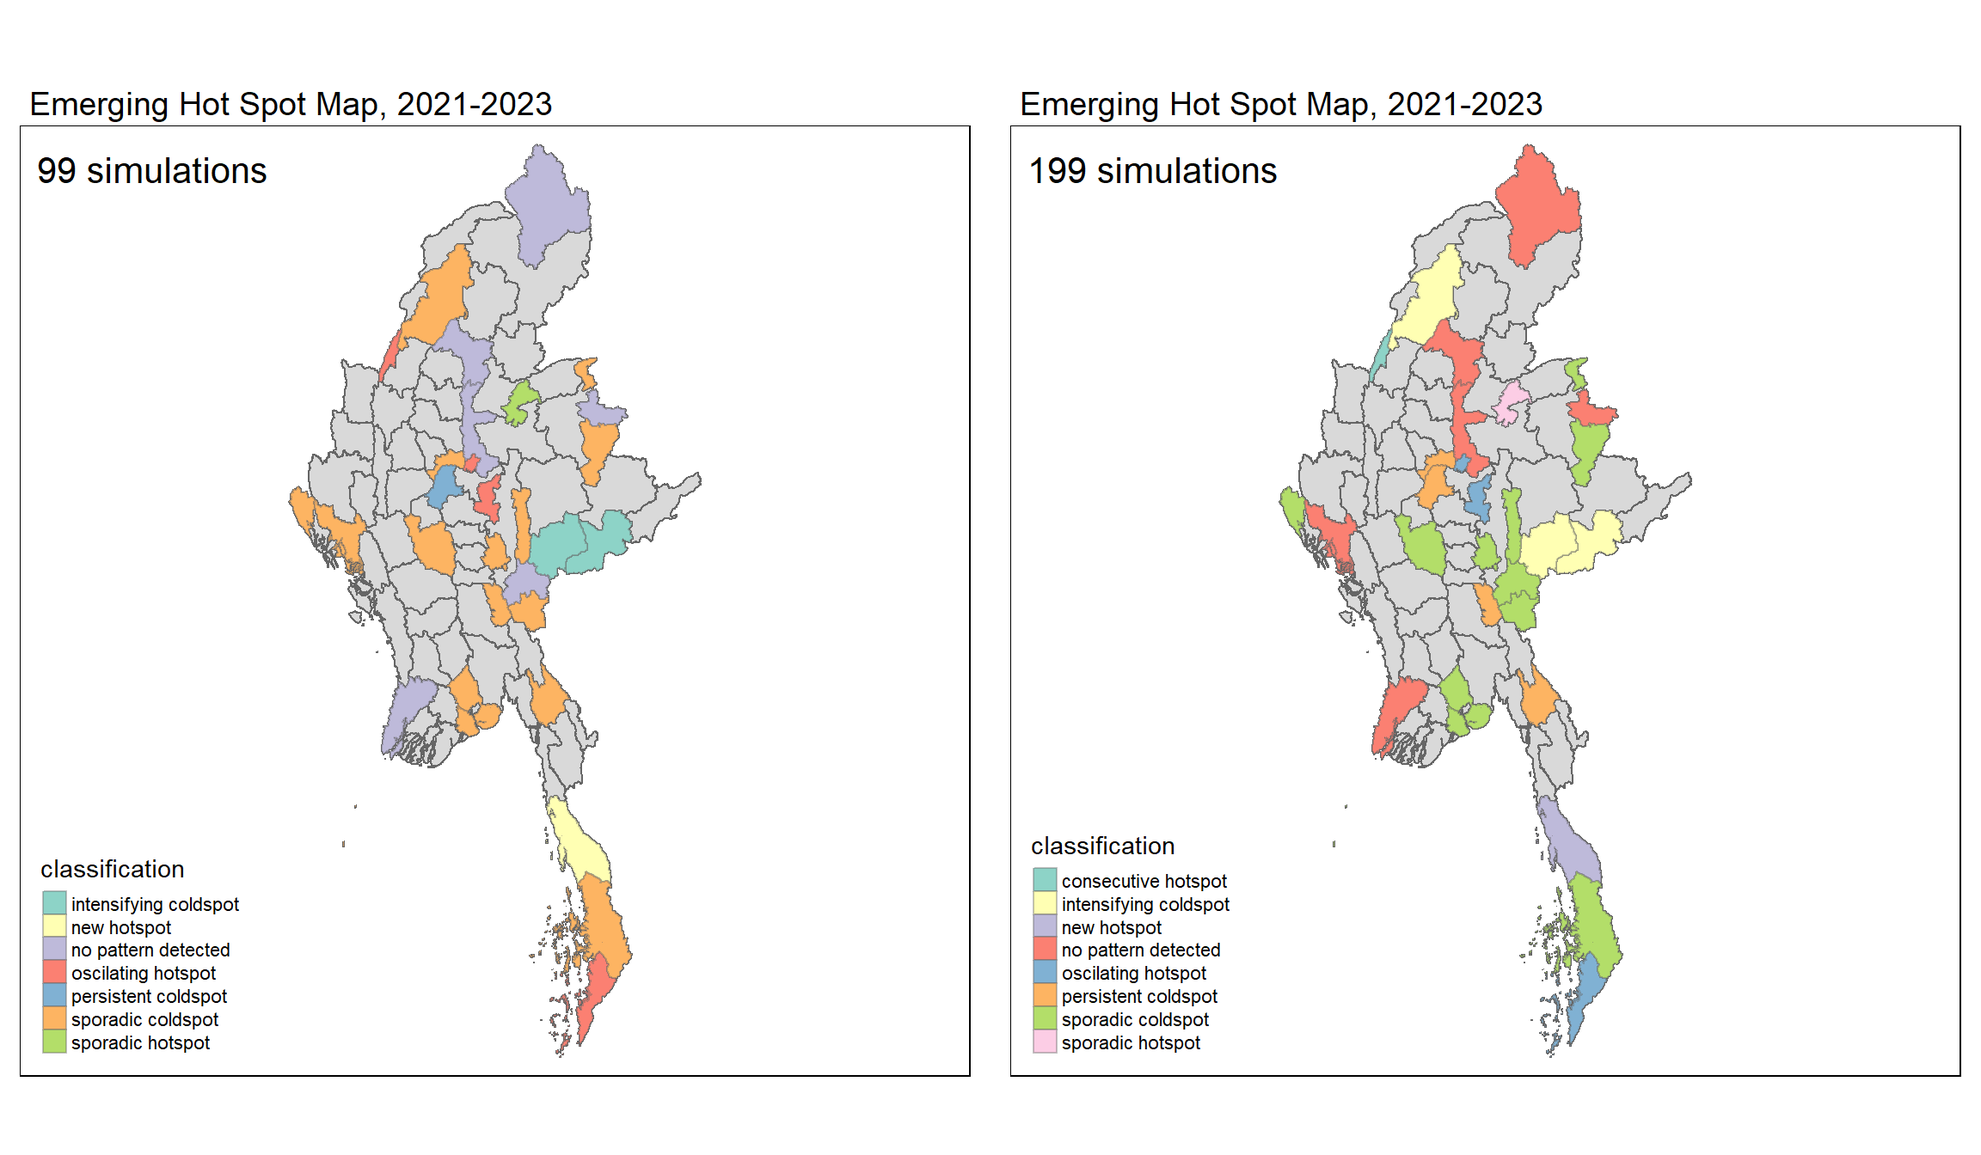
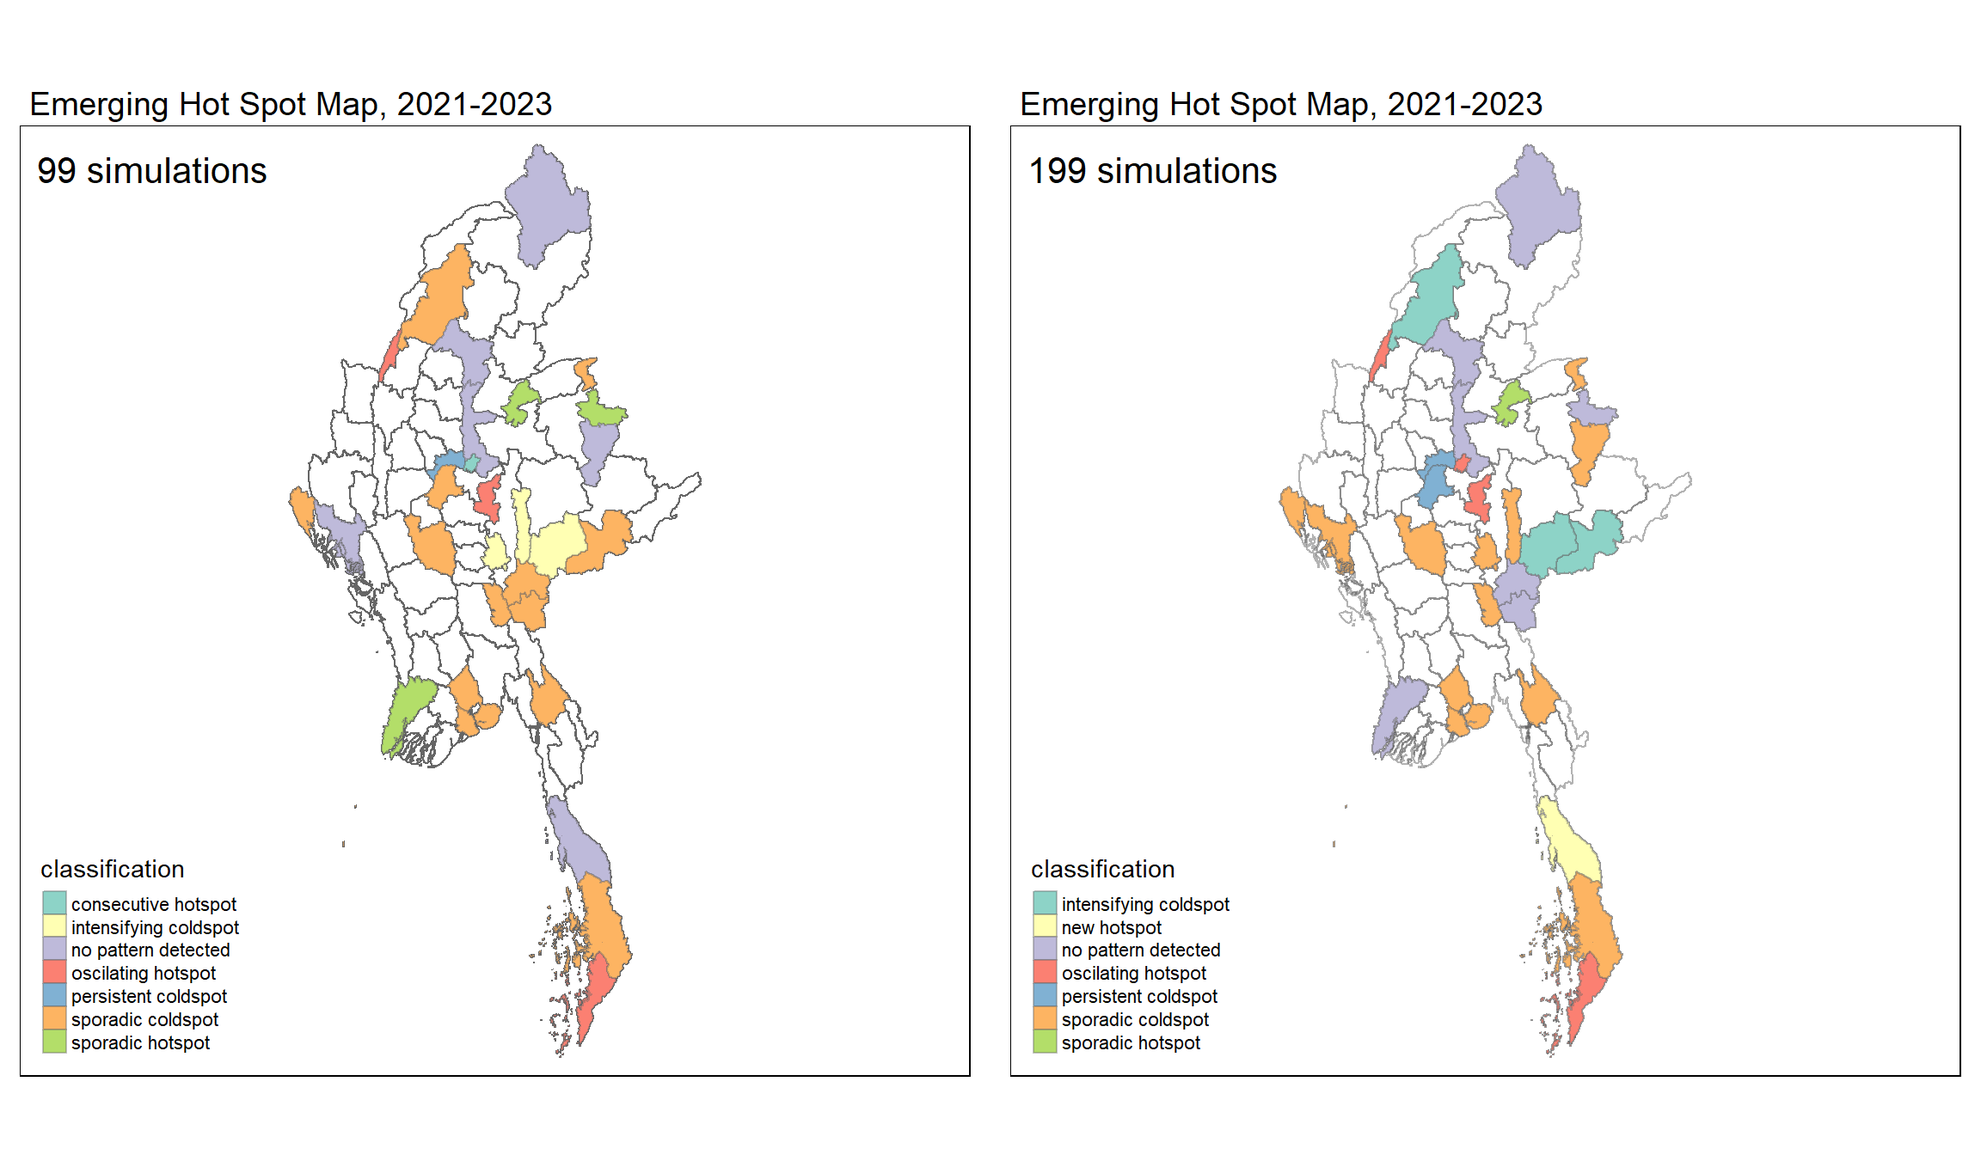
take home ex 4e latest

diff --git a/_site/Take-home-ex/Take-home-Ex4e/Take-home_Ex4e.html b/_site/Take-home-ex/Take-home-Ex4e/Take-home_Ex4e.html
@@ -459,16 +459,16 @@ Geodetic CRS:  WGS 84</code></pre>
 # Groups:   quarter [12]
    quarter DT      Incidents nb    wt    gi_star cluster    e_gi  var_gi std_dev
      &lt;dbl&gt; &lt;chr&gt;       &lt;dbl&gt; &lt;lis&gt; &lt;lis&gt;   &lt;dbl&gt; &lt;fct&gt;     &lt;dbl&gt;   &lt;dbl&gt;   &lt;dbl&gt;
- 1   20211 Hintha…         0 &lt;int&gt; &lt;dbl&gt;  -0.938 Low     0.00928 1.50e-4 -0.757 
- 2   20211 Labutta         0 &lt;int&gt; &lt;dbl&gt;  -0.645 Low     0.00562 1.40e-4 -0.474 
- 3   20211 Maubin          0 &lt;int&gt; &lt;dbl&gt;  -0.938 Low     0.00930 1.46e-4 -0.771 
- 4   20211 Myaung…         0 &lt;int&gt; &lt;dbl&gt;  -0.801 Low     0.00742 1.42e-4 -0.622 
- 5   20211 Pathein         0 &lt;int&gt; &lt;dbl&gt;  -0.801 Low     0.00867 1.78e-4 -0.649 
- 6   20211 Pyapon          0 &lt;int&gt; &lt;dbl&gt;  -0.801 Low     0.00822 1.75e-4 -0.621 
- 7   20211 Bago            1 &lt;int&gt; &lt;dbl&gt;   0.321 Low     0.0108  1.49e-4  0.490 
- 8   20211 Taungoo         8 &lt;int&gt; &lt;dbl&gt;   0.432 High    0.0214  1.46e-4 -0.292 
- 9   20211 Pyay            0 &lt;int&gt; &lt;dbl&gt;  -0.337 Low     0.00993 1.82e-4 -0.167 
-10   20211 Thayar…         0 &lt;int&gt; &lt;dbl&gt;  -0.270 Low     0.00907 1.62e-4 -0.0342
+ 1   20211 Hintha…         0 &lt;int&gt; &lt;dbl&gt;  -0.938 Low     0.00878 1.38e-4 -0.747 
+ 2   20211 Labutta         0 &lt;int&gt; &lt;dbl&gt;  -0.645 Low     0.00677 2.30e-4 -0.447 
+ 3   20211 Maubin          0 &lt;int&gt; &lt;dbl&gt;  -0.938 Low     0.00973 1.47e-4 -0.803 
+ 4   20211 Myaung…         0 &lt;int&gt; &lt;dbl&gt;  -0.801 Low     0.00832 1.66e-4 -0.645 
+ 5   20211 Pathein         0 &lt;int&gt; &lt;dbl&gt;  -0.801 Low     0.00840 1.72e-4 -0.641 
+ 6   20211 Pyapon          0 &lt;int&gt; &lt;dbl&gt;  -0.801 Low     0.00859 1.92e-4 -0.621 
+ 7   20211 Bago            1 &lt;int&gt; &lt;dbl&gt;   0.321 Low     0.0109  1.34e-4  0.506 
+ 8   20211 Taungoo         8 &lt;int&gt; &lt;dbl&gt;   0.432 High    0.0211  1.31e-4 -0.279 
+ 9   20211 Pyay            0 &lt;int&gt; &lt;dbl&gt;  -0.337 Low     0.00970 1.64e-4 -0.158 
+10   20211 Thayar…         0 &lt;int&gt; &lt;dbl&gt;  -0.270 Low     0.00904 1.58e-4 -0.0330
 # ℹ 950 more rows
 # ℹ 5 more variables: p_value &lt;dbl&gt;, p_sim &lt;dbl&gt;, p_folded_sim &lt;dbl&gt;,
 #   skewness &lt;dbl&gt;, kurtosis &lt;dbl&gt;</code></pre>
@@ -497,8 +497,8 @@ Geodetic CRS:  WGS 84</code></pre>
 <span id="cb14-6"><a href="#cb14-6" aria-hidden="true" tabindex="-1"></a></span>
 <span id="cb14-7"><a href="#cb14-7" aria-hidden="true" tabindex="-1"></a><span class="fu">ggplotly</span>(p3)</span></code><button title="Copy to Clipboard" class="code-copy-button"><i class="bi"></i></button></pre></div>
 <div class="cell-output-display">
-<div class="plotly html-widget html-fill-item" id="htmlwidget-40ff0115b83062f337fd" style="width:100%;height:464px;"></div>
-<script type="application/json" data-for="htmlwidget-40ff0115b83062f337fd">{"x":{"data":[{"x":[20211,20212,20213,20214,20221,20222,20223,20224,20231,20232,20233,20234],"y":[-0.93751257944361199,-1.27667486743152,-1.685214447206653,-1.4719409717472254,-1.6682469649078393,-1.6589364706864278,-1.9726482068457223,-1.8280863415982889,-1.5849030767048147,-1.6875167576840768,-1.6749279580579677,-1.4351478905503112],"text":["quarter: 20211<br />gi_star: -0.9375126","quarter: 20212<br />gi_star: -1.2766749","quarter: 20213<br />gi_star: -1.6852144","quarter: 20214<br />gi_star: -1.4719410","quarter: 20221<br />gi_star: -1.6682470","quarter: 20222<br />gi_star: -1.6589365","quarter: 20223<br />gi_star: -1.9726482","quarter: 20224<br />gi_star: -1.8280863","quarter: 20231<br />gi_star: -1.5849031","quarter: 20232<br />gi_star: -1.6875168","quarter: 20233<br />gi_star: -1.6749280","quarter: 20234<br />gi_star: -1.4351479"],"type":"scatter","mode":"lines","line":{"width":1.8897637795275593,"color":"rgba(0,0,0,1)","dash":"solid"},"hoveron":"points","showlegend":false,"xaxis":"x","yaxis":"y","hoverinfo":"text","frame":null}],"layout":{"margin":{"t":26.228310502283104,"r":7.3059360730593621,"b":40.182648401826491,"l":48.949771689497723},"plot_bgcolor":"rgba(255,255,255,1)","paper_bgcolor":"rgba(255,255,255,1)","font":{"color":"rgba(0,0,0,1)","family":"","size":14.611872146118724},"xaxis":{"domain":[0,1],"automargin":true,"type":"linear","autorange":false,"range":[20209.849999999999,20235.150000000001],"tickmode":"array","ticktext":["20210","20215","20220","20225","20230","20235"],"tickvals":[20210,20215,20220,20225,20230,20235],"categoryorder":"array","categoryarray":["20210","20215","20220","20225","20230","20235"],"nticks":null,"ticks":"outside","tickcolor":"rgba(179,179,179,1)","ticklen":3.6529680365296811,"tickwidth":0.33208800332088001,"showticklabels":true,"tickfont":{"color":"rgba(77,77,77,1)","family":"","size":11.68949771689498},"tickangle":-0,"showline":false,"linecolor":null,"linewidth":0,"showgrid":true,"gridcolor":"rgba(222,222,222,1)","gridwidth":0.33208800332088001,"zeroline":false,"anchor":"y","title":{"text":"quarter","font":{"color":"rgba(0,0,0,1)","family":"","size":14.611872146118724}},"hoverformat":".2f"},"yaxis":{"domain":[0,1],"automargin":true,"type":"linear","autorange":false,"range":[-2.0244049882158279,-0.88575579807350646],"tickmode":"array","ticktext":["-1.8","-1.5","-1.2","-0.9"],"tickvals":[-1.8000000000000005,-1.5000000000000004,-1.2000000000000004,-0.90000000000000036],"categoryorder":"array","categoryarray":["-1.8","-1.5","-1.2","-0.9"],"nticks":null,"ticks":"outside","tickcolor":"rgba(179,179,179,1)","ticklen":3.6529680365296811,"tickwidth":0.33208800332088001,"showticklabels":true,"tickfont":{"color":"rgba(77,77,77,1)","family":"","size":11.68949771689498},"tickangle":-0,"showline":false,"linecolor":null,"linewidth":0,"showgrid":true,"gridcolor":"rgba(222,222,222,1)","gridwidth":0.33208800332088001,"zeroline":false,"anchor":"x","title":{"text":"gi_star","font":{"color":"rgba(0,0,0,1)","family":"","size":14.611872146118724}},"hoverformat":".2f"},"shapes":[{"type":"rect","fillcolor":"transparent","line":{"color":"rgba(179,179,179,1)","width":0.66417600664176002,"linetype":"solid"},"yref":"paper","xref":"paper","x0":0,"x1":1,"y0":0,"y1":1}],"showlegend":false,"legend":{"bgcolor":"rgba(255,255,255,1)","bordercolor":"transparent","borderwidth":1.8897637795275593,"font":{"color":"rgba(0,0,0,1)","family":"","size":11.68949771689498}},"hovermode":"closest","barmode":"relative"},"config":{"doubleClick":"reset","modeBarButtonsToAdd":["hoverclosest","hovercompare"],"showSendToCloud":false},"source":"A","attrs":{"2984f1872b6":{"x":{},"y":{},"type":"scatter"}},"cur_data":"2984f1872b6","visdat":{"2984f1872b6":["function (y) ","x"]},"highlight":{"on":"plotly_click","persistent":false,"dynamic":false,"selectize":false,"opacityDim":0.20000000000000001,"selected":{"opacity":1},"debounce":0},"shinyEvents":["plotly_hover","plotly_click","plotly_selected","plotly_relayout","plotly_brushed","plotly_brushing","plotly_clickannotation","plotly_doubleclick","plotly_deselect","plotly_afterplot","plotly_sunburstclick"],"base_url":"https://plot.ly"},"evals":[],"jsHooks":[]}</script>
+<div class="plotly html-widget html-fill-item" id="htmlwidget-d7a52320d92c410ff6c5" style="width:100%;height:464px;"></div>
+<script type="application/json" data-for="htmlwidget-d7a52320d92c410ff6c5">{"x":{"data":[{"x":[20211,20212,20213,20214,20221,20222,20223,20224,20231,20232,20233,20234],"y":[-0.93751257944361199,-1.27667486743152,-1.685214447206653,-1.4719409717472254,-1.6682469649078393,-1.6589364706864278,-1.9726482068457223,-1.8280863415982889,-1.5849030767048147,-1.6875167576840768,-1.6749279580579677,-1.4351478905503112],"text":["quarter: 20211<br />gi_star: -0.9375126","quarter: 20212<br />gi_star: -1.2766749","quarter: 20213<br />gi_star: -1.6852144","quarter: 20214<br />gi_star: -1.4719410","quarter: 20221<br />gi_star: -1.6682470","quarter: 20222<br />gi_star: -1.6589365","quarter: 20223<br />gi_star: -1.9726482","quarter: 20224<br />gi_star: -1.8280863","quarter: 20231<br />gi_star: -1.5849031","quarter: 20232<br />gi_star: -1.6875168","quarter: 20233<br />gi_star: -1.6749280","quarter: 20234<br />gi_star: -1.4351479"],"type":"scatter","mode":"lines","line":{"width":1.8897637795275593,"color":"rgba(0,0,0,1)","dash":"solid"},"hoveron":"points","showlegend":false,"xaxis":"x","yaxis":"y","hoverinfo":"text","frame":null}],"layout":{"margin":{"t":26.228310502283104,"r":7.3059360730593621,"b":40.182648401826491,"l":48.949771689497723},"plot_bgcolor":"rgba(255,255,255,1)","paper_bgcolor":"rgba(255,255,255,1)","font":{"color":"rgba(0,0,0,1)","family":"","size":14.611872146118724},"xaxis":{"domain":[0,1],"automargin":true,"type":"linear","autorange":false,"range":[20209.849999999999,20235.150000000001],"tickmode":"array","ticktext":["20210","20215","20220","20225","20230","20235"],"tickvals":[20210,20215,20220,20225,20230,20235],"categoryorder":"array","categoryarray":["20210","20215","20220","20225","20230","20235"],"nticks":null,"ticks":"outside","tickcolor":"rgba(179,179,179,1)","ticklen":3.6529680365296811,"tickwidth":0.33208800332088001,"showticklabels":true,"tickfont":{"color":"rgba(77,77,77,1)","family":"","size":11.68949771689498},"tickangle":-0,"showline":false,"linecolor":null,"linewidth":0,"showgrid":true,"gridcolor":"rgba(222,222,222,1)","gridwidth":0.33208800332088001,"zeroline":false,"anchor":"y","title":{"text":"quarter","font":{"color":"rgba(0,0,0,1)","family":"","size":14.611872146118724}},"hoverformat":".2f"},"yaxis":{"domain":[0,1],"automargin":true,"type":"linear","autorange":false,"range":[-2.0244049882158279,-0.88575579807350646],"tickmode":"array","ticktext":["-1.8","-1.5","-1.2","-0.9"],"tickvals":[-1.8000000000000005,-1.5000000000000004,-1.2000000000000004,-0.90000000000000036],"categoryorder":"array","categoryarray":["-1.8","-1.5","-1.2","-0.9"],"nticks":null,"ticks":"outside","tickcolor":"rgba(179,179,179,1)","ticklen":3.6529680365296811,"tickwidth":0.33208800332088001,"showticklabels":true,"tickfont":{"color":"rgba(77,77,77,1)","family":"","size":11.68949771689498},"tickangle":-0,"showline":false,"linecolor":null,"linewidth":0,"showgrid":true,"gridcolor":"rgba(222,222,222,1)","gridwidth":0.33208800332088001,"zeroline":false,"anchor":"x","title":{"text":"gi_star","font":{"color":"rgba(0,0,0,1)","family":"","size":14.611872146118724}},"hoverformat":".2f"},"shapes":[{"type":"rect","fillcolor":"transparent","line":{"color":"rgba(179,179,179,1)","width":0.66417600664176002,"linetype":"solid"},"yref":"paper","xref":"paper","x0":0,"x1":1,"y0":0,"y1":1}],"showlegend":false,"legend":{"bgcolor":"rgba(255,255,255,1)","bordercolor":"transparent","borderwidth":1.8897637795275593,"font":{"color":"rgba(0,0,0,1)","family":"","size":11.68949771689498}},"hovermode":"closest","barmode":"relative"},"config":{"doubleClick":"reset","modeBarButtonsToAdd":["hoverclosest","hovercompare"],"showSendToCloud":false},"source":"A","attrs":{"8ed44353627":{"x":{},"y":{},"type":"scatter"}},"cur_data":"8ed44353627","visdat":{"8ed44353627":["function (y) ","x"]},"highlight":{"on":"plotly_click","persistent":false,"dynamic":false,"selectize":false,"opacityDim":0.20000000000000001,"selected":{"opacity":1},"debounce":0},"shinyEvents":["plotly_hover","plotly_click","plotly_selected","plotly_relayout","plotly_brushed","plotly_brushing","plotly_clickannotation","plotly_doubleclick","plotly_deselect","plotly_afterplot","plotly_sunburstclick"],"base_url":"https://plot.ly"},"evals":[],"jsHooks":[]}</script>
 </div>
 </div>
 <p>Mann Kendall test for&nbsp;<strong>Hinthada district-quarterly</strong></p>
@@ -911,8 +911,8 @@ Geodetic CRS:  WGS 84</code></pre>
 <details>
 <summary>Show the code</summary>
 <div class="sourceCode cell-code" id="cb33"><pre class="sourceCode r code-with-copy"><code class="sourceCode r"><span id="cb33-1"><a href="#cb33-1" aria-hidden="true" tabindex="-1"></a>ehsa1 <span class="ot">&lt;-</span> <span class="fu">tm_shape</span>(mmr_ehsa99) <span class="sc">+</span></span>
-<span id="cb33-2"><a href="#cb33-2" aria-hidden="true" tabindex="-1"></a>  <span class="fu">tm_polygons</span>() <span class="sc">+</span></span>
-<span id="cb33-3"><a href="#cb33-3" aria-hidden="true" tabindex="-1"></a>  <span class="fu">tm_borders</span>(<span class="at">alpha =</span> <span class="fl">0.5</span>) <span class="sc">+</span></span>
+<span id="cb33-2"><a href="#cb33-2" aria-hidden="true" tabindex="-1"></a>  </span>
+<span id="cb33-3"><a href="#cb33-3" aria-hidden="true" tabindex="-1"></a>  <span class="fu">tm_borders</span>() <span class="sc">+</span></span>
 <span id="cb33-4"><a href="#cb33-4" aria-hidden="true" tabindex="-1"></a><span class="fu">tm_shape</span>(ehsa_sig99) <span class="sc">+</span></span>
 <span id="cb33-5"><a href="#cb33-5" aria-hidden="true" tabindex="-1"></a>  <span class="fu">tm_fill</span>(<span class="st">"classification"</span>) <span class="sc">+</span> </span>
 <span id="cb33-6"><a href="#cb33-6" aria-hidden="true" tabindex="-1"></a>  <span class="fu">tm_borders</span>(<span class="at">alpha =</span> <span class="fl">0.4</span>) <span class="sc">+</span></span>
@@ -925,7 +925,7 @@ Geodetic CRS:  WGS 84</code></pre>
 <span id="cb33-13"><a href="#cb33-13" aria-hidden="true" tabindex="-1"></a>            <span class="at">legend.position =</span> <span class="fu">c</span>(<span class="st">"left"</span>, <span class="st">"bottom"</span>))</span>
 <span id="cb33-14"><a href="#cb33-14" aria-hidden="true" tabindex="-1"></a></span>
 <span id="cb33-15"><a href="#cb33-15" aria-hidden="true" tabindex="-1"></a>ehsa2 <span class="ot">&lt;-</span> <span class="fu">tm_shape</span>(mmr_ehsa199) <span class="sc">+</span></span>
-<span id="cb33-16"><a href="#cb33-16" aria-hidden="true" tabindex="-1"></a>  <span class="fu">tm_polygons</span>() <span class="sc">+</span></span>
+<span id="cb33-16"><a href="#cb33-16" aria-hidden="true" tabindex="-1"></a>  </span>
 <span id="cb33-17"><a href="#cb33-17" aria-hidden="true" tabindex="-1"></a>  <span class="fu">tm_borders</span>(<span class="at">alpha =</span> <span class="fl">0.5</span>) <span class="sc">+</span></span>
 <span id="cb33-18"><a href="#cb33-18" aria-hidden="true" tabindex="-1"></a><span class="fu">tm_shape</span>(ehsa_sig199) <span class="sc">+</span></span>
 <span id="cb33-19"><a href="#cb33-19" aria-hidden="true" tabindex="-1"></a>  <span class="fu">tm_fill</span>(<span class="st">"classification"</span>) <span class="sc">+</span> </span>
@@ -939,7 +939,7 @@ Geodetic CRS:  WGS 84</code></pre>
 <span id="cb33-27"><a href="#cb33-27" aria-hidden="true" tabindex="-1"></a>            <span class="at">legend.position =</span> <span class="fu">c</span>(<span class="st">"left"</span>, <span class="st">"bottom"</span>))</span>
 <span id="cb33-28"><a href="#cb33-28" aria-hidden="true" tabindex="-1"></a></span>
 <span id="cb33-29"><a href="#cb33-29" aria-hidden="true" tabindex="-1"></a>ehsa3 <span class="ot">&lt;-</span> <span class="fu">tm_shape</span>(mmr_ehsa299) <span class="sc">+</span></span>
-<span id="cb33-30"><a href="#cb33-30" aria-hidden="true" tabindex="-1"></a>  <span class="fu">tm_polygons</span>() <span class="sc">+</span></span>
+<span id="cb33-30"><a href="#cb33-30" aria-hidden="true" tabindex="-1"></a>  </span>
 <span id="cb33-31"><a href="#cb33-31" aria-hidden="true" tabindex="-1"></a>  <span class="fu">tm_borders</span>(<span class="at">alpha =</span> <span class="fl">0.5</span>) <span class="sc">+</span></span>
 <span id="cb33-32"><a href="#cb33-32" aria-hidden="true" tabindex="-1"></a><span class="fu">tm_shape</span>(ehsa_sig299) <span class="sc">+</span></span>
 <span id="cb33-33"><a href="#cb33-33" aria-hidden="true" tabindex="-1"></a>  <span class="fu">tm_fill</span>(<span class="st">"classification"</span>) <span class="sc">+</span> </span>
@@ -953,7 +953,7 @@ Geodetic CRS:  WGS 84</code></pre>
 <span id="cb33-41"><a href="#cb33-41" aria-hidden="true" tabindex="-1"></a>            <span class="at">legend.position =</span> <span class="fu">c</span>(<span class="st">"left"</span>, <span class="st">"bottom"</span>))</span>
 <span id="cb33-42"><a href="#cb33-42" aria-hidden="true" tabindex="-1"></a></span>
 <span id="cb33-43"><a href="#cb33-43" aria-hidden="true" tabindex="-1"></a>ehsa4 <span class="ot">&lt;-</span> <span class="fu">tm_shape</span>(mmr_ehsa399) <span class="sc">+</span></span>
-<span id="cb33-44"><a href="#cb33-44" aria-hidden="true" tabindex="-1"></a>  <span class="fu">tm_polygons</span>() <span class="sc">+</span></span>
+<span id="cb33-44"><a href="#cb33-44" aria-hidden="true" tabindex="-1"></a>  </span>
 <span id="cb33-45"><a href="#cb33-45" aria-hidden="true" tabindex="-1"></a>  <span class="fu">tm_borders</span>(<span class="at">alpha =</span> <span class="fl">0.5</span>) <span class="sc">+</span></span>
 <span id="cb33-46"><a href="#cb33-46" aria-hidden="true" tabindex="-1"></a><span class="fu">tm_shape</span>(ehsa_sig399) <span class="sc">+</span></span>
 <span id="cb33-47"><a href="#cb33-47" aria-hidden="true" tabindex="-1"></a>  <span class="fu">tm_fill</span>(<span class="st">"classification"</span>) <span class="sc">+</span> </span>
@@ -1005,8 +1005,16 @@ Geodetic CRS:  WGS 84</code></pre>
 </thead>
 <tbody>
 <tr class="odd">
+<td style="text-align: left;">Pathein</td>
+<td style="text-align: left;">sporadic hotspot</td>
+</tr>
+<tr class="even">
 <td style="text-align: left;">Tamu</td>
 <td style="text-align: left;">oscilating hotspot</td>
+</tr>
+<tr class="odd">
+<td style="text-align: left;">Hopang</td>
+<td style="text-align: left;">sporadic hotspot</td>
 </tr>
 <tr class="even">
 <td style="text-align: left;">Pa Laung Self-Administered Zone</td>
@@ -1017,16 +1025,12 @@ Geodetic CRS:  WGS 84</code></pre>
 <td style="text-align: left;">oscilating hotspot</td>
 </tr>
 <tr class="even">
-<td style="text-align: left;">Dawei</td>
-<td style="text-align: left;">new hotspot</td>
-</tr>
-<tr class="odd">
 <td style="text-align: left;">Kawthoung</td>
 <td style="text-align: left;">oscilating hotspot</td>
 </tr>
-<tr class="even">
+<tr class="odd">
 <td style="text-align: left;">Mandalay</td>
-<td style="text-align: left;">oscilating hotspot</td>
+<td style="text-align: left;">consecutive hotspot</td>
 </tr>
 </tbody>
 </table>
@@ -1055,7 +1059,7 @@ Geodetic CRS:  WGS 84</code></pre>
 <tbody>
 <tr class="odd">
 <td style="text-align: left;">Tamu</td>
-<td style="text-align: left;">consecutive hotspot</td>
+<td style="text-align: left;">oscilating hotspot</td>
 </tr>
 <tr class="even">
 <td style="text-align: left;">Pa Laung Self-Administered Zone</td>
@@ -1103,7 +1107,7 @@ Geodetic CRS:  WGS 84</code></pre>
 </thead>
 <tbody>
 <tr class="odd">
-<td style="text-align: left;">Katha</td>
+<td style="text-align: left;">Pathein</td>
 <td style="text-align: left;">sporadic hotspot</td>
 </tr>
 <tr class="even">
@@ -1111,22 +1115,26 @@ Geodetic CRS:  WGS 84</code></pre>
 <td style="text-align: left;">oscilating hotspot</td>
 </tr>
 <tr class="odd">
-<td style="text-align: left;">Pa Laung Self-Administered Zone</td>
+<td style="text-align: left;">Hopang</td>
 <td style="text-align: left;">sporadic hotspot</td>
 </tr>
 <tr class="even">
+<td style="text-align: left;">Pa Laung Self-Administered Zone</td>
+<td style="text-align: left;">sporadic hotspot</td>
+</tr>
+<tr class="odd">
 <td style="text-align: left;">Danu Self-Administered Zone</td>
 <td style="text-align: left;">oscilating hotspot</td>
 </tr>
-<tr class="odd">
+<tr class="even">
 <td style="text-align: left;">Dawei</td>
 <td style="text-align: left;">new hotspot</td>
 </tr>
-<tr class="even">
+<tr class="odd">
 <td style="text-align: left;">Kawthoung</td>
 <td style="text-align: left;">oscilating hotspot</td>
 </tr>
-<tr class="odd">
+<tr class="even">
 <td style="text-align: left;">Mandalay</td>
 <td style="text-align: left;">oscilating hotspot</td>
 </tr>
@@ -1156,7 +1164,7 @@ Geodetic CRS:  WGS 84</code></pre>
 </thead>
 <tbody>
 <tr class="odd">
-<td style="text-align: left;">Pathein</td>
+<td style="text-align: left;">Katha</td>
 <td style="text-align: left;">sporadic hotspot</td>
 </tr>
 <tr class="even">
@@ -1181,7 +1189,7 @@ Geodetic CRS:  WGS 84</code></pre>
 </tr>
 <tr class="odd">
 <td style="text-align: left;">Mandalay</td>
-<td style="text-align: left;">oscilating hotspot</td>
+<td style="text-align: left;">consecutive hotspot</td>
 </tr>
 </tbody>
 </table>
